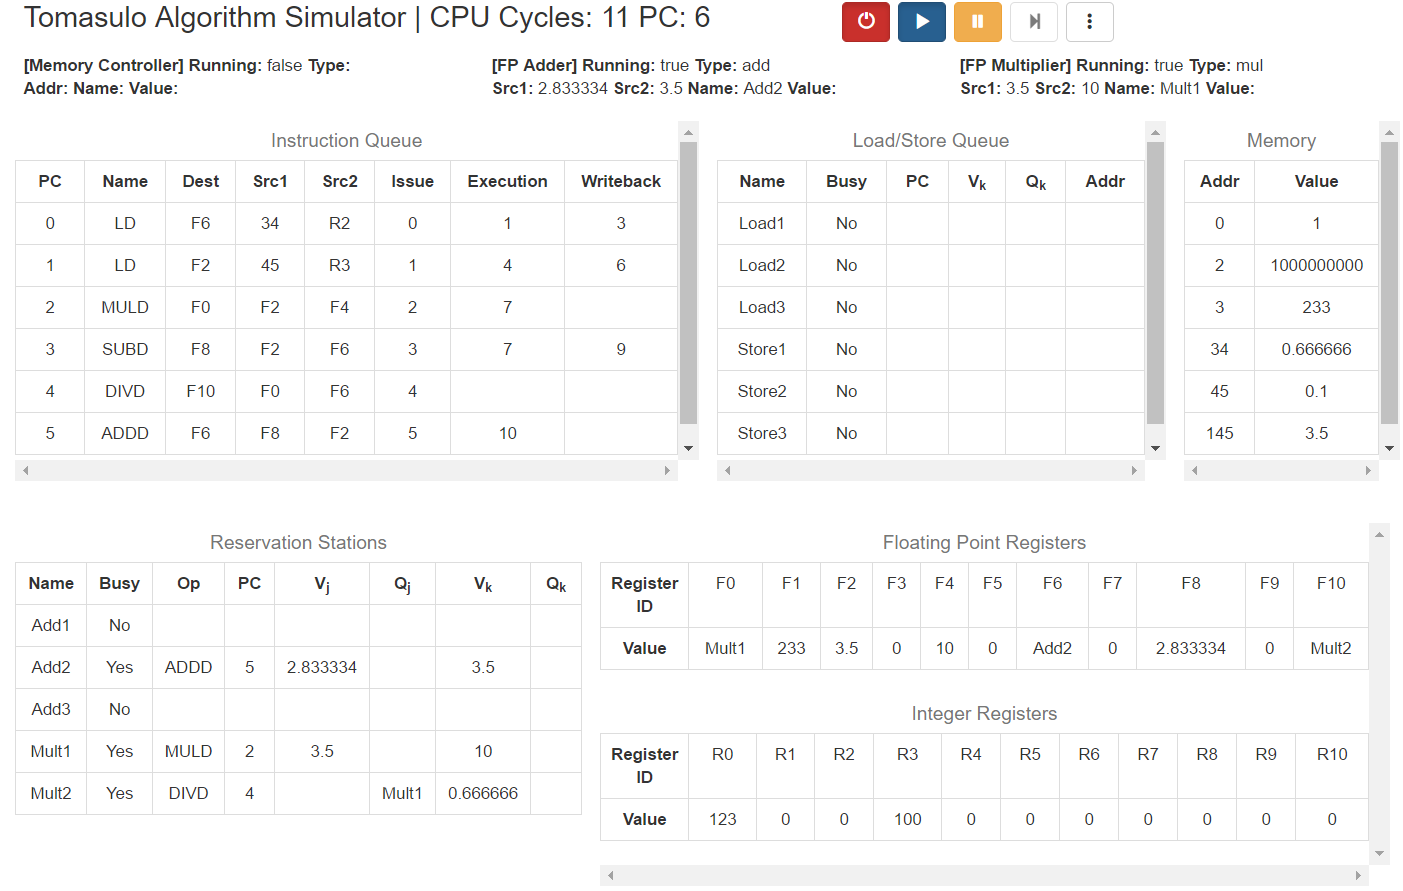
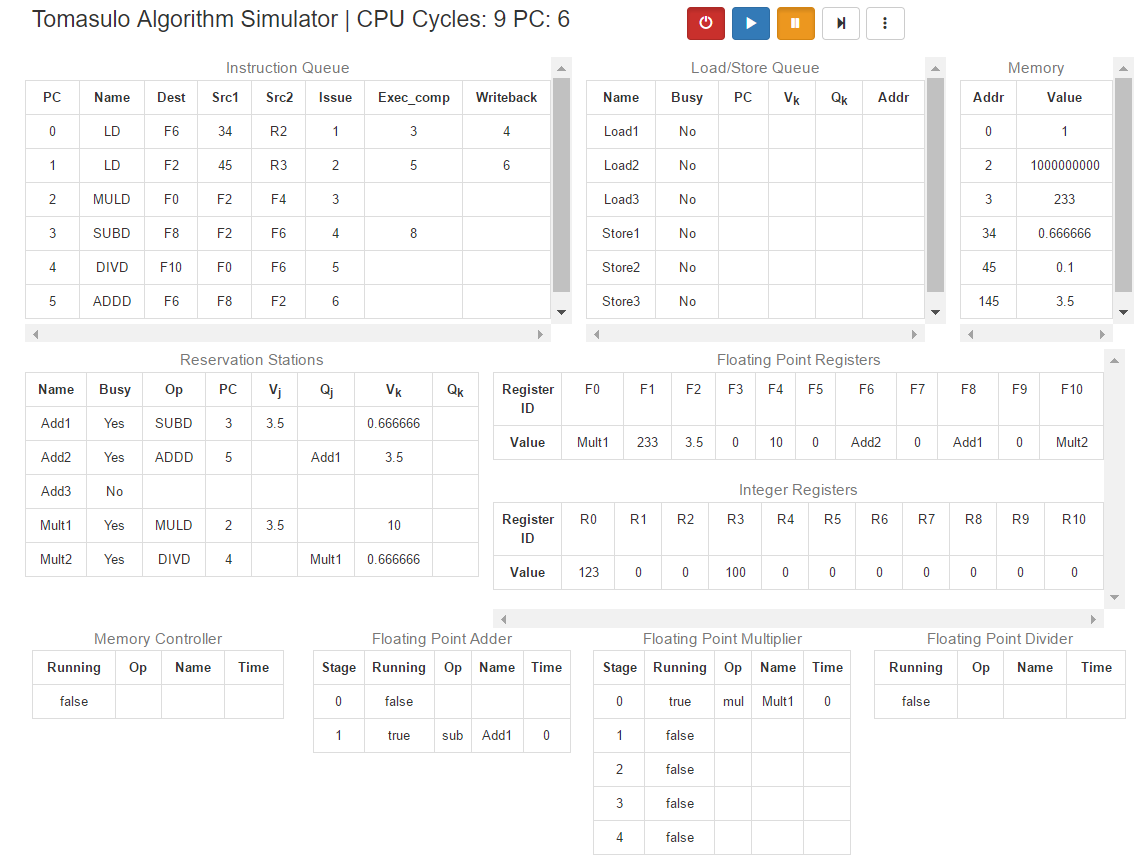
update intro/doc.md

diff --git a/docs/intro/用户使用手册.html b/docs/intro/用户使用手册.html
@@ -29,20 +29,41 @@
 
 <p><img src="imgs/run.png" alt="run" title=""></p>
 
-<p>为了模拟Tomasulo算法，我们使用<code>javascript</code>模拟了一个CPU，<strong>对命令进行硬件级的模拟</strong>；在页面的右上方有5个按钮，我们可以通过这5个按钮控制CPU的行为，包括开关机、启动、暂停和初始化，在页面的中间则是若干表格，描述当前CPU内部的情况，其中“Instruction Queue”表格描述指令队列，“Load/Store Queue”表格表示Tomasulo算法中的存取队列，“Memory”表格则表示内存中对应地址相应的值（注：由于内存一般来说非常大，所以只有被初始化和被修改了的内存块会被显示出来），“Reservation Stations”表格描述Tomasulo算法中的保留站，“Floating Point Registers”和“Integer Registers”则分别描述浮点寄存器和整数寄存器对应的值。</p>
+<p>为了模拟Tomasulo算法，我们使用<code>javascript</code>模拟了一个CPU，<strong>对指令进行硬件级的模拟</strong>。</p>
+
+<p>在页面的右上方有5个按钮（详见下文），我们可以通过这5个按钮控制CPU的行为，包括开关机、运行、暂停和初始化。</p>
+
+<p>在页面的中间则是若干表格，描述当前CPU内部的情况，对应情况如下：</p>
+
+<ul>
+<li>Instruction Queue：指令队列表格</li>
+<li>Load/Store Queue：Tomasulo算法中的存取队列</li>
+<li>Memory：内存中对应地址及其相应的值（注：由于内存一般来说非常大，所以只有被初始化和被修改了的内存块会被显示出来）</li>
+<li>Reservation Stations：Tomasulo算法中的保留站</li>
+<li>Floating Point Registers &amp; Integer Registers：浮点寄存器和整数寄存器对应的值</li>
+</ul>
 
 
 
 <h3 id="5个控制按钮">5个控制按钮</h3>
 
-<p>在页面的右上方，是软件的5个控制按钮，你所需要进行的所有操作均可以通过这5个按钮来实现，它们各自的功能如下：</p>
+<p>在页面的右上方，是软件的5个控制按钮，所需进行的所有操作均可以通过这5个按钮来实现，它们各自的功能如下：</p>
 
 <ul>
-<li><p><img src="imgs/power.png" alt="power" title="">开机关机按钮：默认情况下CPU是关机状态，在关机状态下你可以通过“选项”按钮（详见下文）对CPU进行一些初始化操作；<em>当你按下此按钮，CPU将由关机状态切换到开机且暂停状态</em>，此时CPU会根据初始化时设定的内容对页面进行一些设置，比如，操作命令将会被按行解析，分析出每条命令的操作类型、源操作数和目标操作数，然后将其依次放入“Instruction Queue”中，同时也会根据设定的内存值和寄存器值，将“Memory”、“Floating Point Registers”和“Integer Registers”表格中对应的位置进行初始化</p></li>
+<li><p><img src="imgs/power.png" alt="power" title="">电源按钮：默认情况下CPU是关机状态，在关机状态下你可以通过“选项”按钮（详见下文）对CPU进行一些初始化操作；<em>当你按下此按钮，CPU将由关机状态切换到开机且暂停状态</em>，此时CPU会根据初始化时设定的内容对页面进行以下设置：</p>
+
+<ul><li>指令列表将会被按行解析，分析出每条命令的操作类型、源操作数和目标操作数，然后将其依次放入“Instruction Queue”中</li>
+<li>根据设定的内存值，将“Memory”表格中对应的位置进行初始化</li>
+<li>根据设定的寄存器值，将“Floating Point Registers”和“Integer Registers”表格中对应的位置进行初始化</li></ul></li>
 <li><p><img src="imgs/start.png" alt="start" title="">运行按钮：<strong>只有CPU已开机且处于暂停状态下才能使用此按钮</strong>，点击此按钮CPU将处于自动运行状态，在此种状态下，CPU将以1Hz的时钟运行，并且更新的值会出现绿色的闪烁</p></li>
-<li><p><img src="imgs/pause.png" alt="pause" title="">暂停按钮：当CPU处于自动运行状态时，点击此按钮可以将CPU暂停，此时你可以详细查看当前各个表格中的值，你也可以使用运行按钮继续从当前状态启动CPU，也可以使用单步按钮（详见下文）让CPU继续执行一个时钟周期</p></li>
+<li><p><img src="imgs/pause.png" alt="pause" title="">暂停按钮：当CPU处于自动运行状态时，点击此按钮可以将CPU暂停，此时你可以详细查看当前各个表格中的值，你可以使用运行按钮继续从当前状态启动CPU，也可以使用单步按钮（详见下文）让CPU继续执行一个时钟周期</p></li>
 <li><p><img src="imgs/next.png" alt="next" title="">单步按钮：<strong>只有当CPU处于暂停状态时才可以使用此按钮</strong>，单步按钮既是单步CLK，就是说，每次点击此按钮，都会让CPU执行一个时钟周期；使用此按钮，你可以方便的将CPU运行到你所关心的时钟周期，对于理解Tomasulo算法非常有帮助</p></li>
-<li><p><img src="imgs/options.png" alt="options" title="">选项按钮：点击选项按钮，会弹开如下的对话框，在这个弹出框中你可以进行CPU的初始化设置，最上面的文本框是命令编辑框，你可以将你需要执行的命令按行写入此框中；在“Memory values”编辑框中你可以设置内存的初始值，格式是每行两个数字描述一个内存值，每行的前一个数值表示内存地址，第二个值表示该内存中的值；在“Floating point register values”和“Integer register values”编辑框中你可以设置浮点寄存器和整数寄存器的初始值，格式为每行两个用空格隔开的字符串描述一个寄存器，每行的第一个字符串为寄存器的名字，第二个字符串是该寄存器对应的初始值。<strong>注意，在CPU自动运行状态下按下此按钮会将CPU暂停；按下对话框中的“Save changes”按钮将会自动用对话框中设置的内容对CPU进行初始化，此操作会清空之前CPU的状态，请谨慎使用</strong></p></li>
+<li><p><img src="imgs/options.png" alt="options" title="">选项按钮：点击选项按钮，会弹开如下的对话框，在这个弹出框中你可以进行CPU的初始化设置：</p>
+
+<ul><li>“Instructions”文本框是指令编辑框，你可以将你需要执行的命令按行写入此框中，指令格式详见下文</li>
+<li>“Memory values”编辑框中你可以设置内存的初始值，格式是每行两个数字描述一个内存块的值，每行的前一个数值表示内存地址，第二个值表示该内存中的值</li>
+<li>“Floating point register values”和“Integer register values”编辑框中你可以设置浮点寄存器和整数寄存器的初始值，每行两个用空格隔开的字符串描述一个寄存器，第一个字符串为寄存器的名字，第二个字符串是该寄存器对应的初始值。</li>
+<li><strong>注意，在CPU自动运行状态下按下此按钮会将CPU暂停；按下对话框中的“Save changes”按钮将会自动用对话框中设置的内容对CPU进行初始化，此操作会清空之前CPU的状态，请谨慎使用</strong></li></ul></li>
 </ul>
 
 <p><img src="imgs/options_dialog.png" alt="options_dialog" title=""></p>
@@ -54,6 +75,21 @@
 <p>上面5个按钮的各个功能可以用以下状态机进行描述：</p>
 
 <p><img src="imgs/status.png" alt="status" title=""></p>
+
+
+
+<h3 id="指令说明">指令说明</h3>
+
+<p>目前我们的模拟器支持以下6条指令，通过选项按钮打开的指令编辑框中每行指令必须是以下6条格式的指令之一：</p>
+
+<ol>
+<li><code>ADDD F1, F2, F3</code>：加法指令，其中<code>F1</code>,<code>F2</code>,<code>F3</code>均为浮点寄存器的名字</li>
+<li><code>SUBD F1, F2, F3</code>：减法指令，其中<code>F1</code>,<code>F2</code>,<code>F3</code>均为浮点寄存器的名字</li>
+<li><code>MULD F1, F2, F3</code>：乘法指令，其中<code>F1</code>,<code>F2</code>,<code>F3</code>均为浮点寄存器的名字</li>
+<li><code>DIVD F1, F2, F3</code>：除法指令，其中<code>F1</code>,<code>F2</code>,<code>F3</code>均为浮点寄存器的名字</li>
+<li><code>LD F1, ADDR</code>：载入指令，其中<code>F1</code>为浮点寄存器的名字，<code>ADDR</code>为地址，格式为<code>32(R1)</code>,其中<code>R1</code>是整数寄存器的名字</li>
+<li><code>ST F1, ADDR</code>：储存指令，其中<code>F1</code>为浮点寄存器的名字，<code>ADDR</code>为地址，格式为<code>32(R1)</code>,其中<code>R1</code>是整数寄存器的名字</li>
+</ol>
 
 
 
@@ -80,7 +116,7 @@
 <li>Src1：每条指令固有属性，表示指令的原操作数1</li>
 <li>Src2：每条指令固有属性，表示指令的原操作数2</li>
 <li>Issue：表示在Tomasulo算法中，该指令被发射的时间</li>
-<li>Execution：表示在Tomasulo算法中，该指令运行完成的时间</li>
+<li>Exec_comp：表示在Tomasulo算法中，该指令运行完成的时间</li>
 <li>Writeback：表示在Tomasulo算法中，该指令结果写回的时间</li>
 </ul>
 
@@ -94,10 +130,10 @@
 
 <ul>
 <li>Name：表示Load Buffer和Store Buffer的名字，在Tomasulo算法的寄存器重命名技术中有重要作用</li>
-<li>Busy：描述当前行的Load Buffer和Store Buffer是否空闲，如果当前行有为完成的任务，则Busy列为Yes</li>
+<li>Busy：描述当前行的Load Buffer和Store Buffer是否空闲，如果当前行有未完成的任务，则Busy列为Yes</li>
 <li>PC：表示当前行的任务是哪一条指令</li>
 <li>Vk: 只在Store Buffer中存在，表示需要写入的值，如果值未就位，则为空</li>
-<li>Qk: 只在Store Buffer中存在，表示需要写入值的来自哪个保留栈，如果值已就位，则为空</li>
+<li>Qk: 只在Store Buffer中存在，表示需要写入值的来自哪个保留站，如果值已就位，则为空</li>
 <li>Addr: 表示Load和Store指令的操作地址</li>
 </ul>
 
@@ -116,22 +152,76 @@
 
 <h3 id="reservation-stations">Reservation Stations</h3>
 
-<p>“Reservation Stations”即对应于Tomasulo算法中的保留栈，在本实验中，一共有3个浮点加减法保留栈和2个浮点乘除法保留栈，故共有5行；“Reservation Stations”表格共有8列，描述5个保留栈的各个属性，其含义如下：</p>
+<p>“Reservation Stations”即对应于Tomasulo算法中的保留站，在本实验中，一共有3个浮点加减法保留站和2个浮点乘除法保留站，故共有5行；“Reservation Stations”表格共有8列，描述5个保留站的各个属性，其含义如下：</p>
 
 <ul>
-<li>Name：保留栈的名字，在Tomasulo算法的寄存器重命名中会用到</li>
-<li>Busy：表示当前保留栈是否可以使用，Yes表示当前任务未完成</li>
+<li>Name：保留站的名字，在Tomasulo算法的寄存器重命名中会用到</li>
+<li>Busy：表示当前保留站是否可以使用，Yes表示当前任务未完成</li>
 <li>Op：表示当前任务的操作名称，和“Instruction Queue”中的Name相同</li>
 <li>PC：表示当前任务是哪一条指令</li>
 <li>Vj: 表示源操作数1的值，如果值未就位则此处为空</li>
-<li>Qj: 表示源操作数1来自哪个保留栈，如果值已就位，则此处为空</li>
+<li>Qj: 表示源操作数1来自哪个保留站，如果值已就位，则此处为空</li>
 <li>Vk: 表示源操作数2的值，如果值未就位则此处为空</li>
-<li>Qk: 表示源操作数2来自哪个保留栈，如果值已就位，则此处为空</li>
+<li>Qk: 表示源操作数2来自哪个保留站，如果值已就位，则此处为空</li>
 </ul>
 
 
 
 <h3 id="floating-point-registers-integer-registers">Floating Point Registers &amp; Integer Registers</h3>
 
-<p>“Floating Point Registers”和“Integer Registers”表格描述当前CPU内浮点寄存器和整数寄存器的状态，第一行“Register ID”表示寄存器的标识，第二行“Value”表示对应寄存器的值。</p></div></body>
+<p>“Floating Point Registers”和“Integer Registers”表格描述当前CPU内浮点寄存器和整数寄存器的状态，第一行“Register ID”表示寄存器的标识，第二行“Value”表示对应寄存器的值。</p>
+
+
+
+<h3 id="memory-controller">Memory Controller</h3>
+
+<p>“Memory Controller”表格描述当前访存部件的执行情况，访存部件运行速度为2周期/次；表格一共4列，每列的含义如下：</p>
+
+<ul>
+<li>Running: 表示当前访存部件是否在运行，true表示正在运行</li>
+<li>Op: 表示描述当前的访存操作是load还是store</li>
+<li>Name: 表示当前运行中Load Buffer或Store Buffer的名字</li>
+<li>Time: 表示当前任务完成的剩余时间</li>
+</ul>
+
+
+
+<h3 id="floating-point-adder">Floating Point Adder</h3>
+
+<p>“Floating Point Adder”表格描述当前浮点加减法部件的执行情况，浮点加减法部件为两段流水线，每段流水线1时钟周期；表格一共5列，每列含义如下：</p>
+
+<ul>
+<li>Stage: 表示流水线阶段编号</li>
+<li>Running: 表示当前流水线是否正在运行，true表示正在运行</li>
+<li>Op: 表示当前任务是加法还是减法</li>
+<li>Name: 表示当前任务保留站的名字</li>
+<li>Time: 表示当前任务完成的剩余时间</li>
+</ul>
+
+
+
+<h3 id="floating-point-multiplier">Floating Point Multiplier</h3>
+
+<p>“Floating Point Multiplier”表格描述当前浮点乘法部件的执行情况，浮点乘法部件为五段流水线，每段流水线2时钟周期；表格一共5列，每列含义如下：</p>
+
+<ul>
+<li>Stage: 表示流水线阶段编号</li>
+<li>Running: 表示当前流水线是否正在运行，true表示正在运行</li>
+<li>Op: 表示当前任务类型，为mul</li>
+<li>Name: 表示当前任务保留站的名字</li>
+<li>Time: 表示当前任务完成的剩余时间</li>
+</ul>
+
+
+
+<h3 id="floating-point-divider">Floating Point Divider</h3>
+
+<p>“Floating Point Divider”表格描述当前浮点除法部件的执行情况，浮点除法部件每次任务需要40时钟周期；表格一共4列，每列含义如下：</p>
+
+<ul>
+<li>Running: 表示当前流水线是否正在运行，true表示正在运行</li>
+<li>Op: 表示当前任务类型，为div</li>
+<li>Name: 表示当前任务保留站的名字</li>
+<li>Time: 表示当前任务完成的剩余时间</li>
+</ul></div></body>
 </html>

diff --git a/docs/intro/doc.md b/docs/intro/doc.md
@@ -16,9 +16,9 @@
 
 ![run](imgs/run.png)
 
-为了模拟Tomasulo算法，我们使用`javascript`模拟了一个CPU，**对命令进行硬件级的模拟**。
+为了模拟Tomasulo算法，我们使用`javascript`模拟了一个CPU，**对指令进行硬件级的模拟**。
 
-在页面的右上方有5个按钮（详见下文），我们可以通过这5个按钮控制CPU的行为，包括开关机、启动、暂停和初始化。
+在页面的右上方有5个按钮（详见下文），我们可以通过这5个按钮控制CPU的行为，包括开关机、运行、暂停和初始化。
 
 在页面的中间则是若干表格，描述当前CPU内部的情况，对应情况如下：
 
@@ -30,9 +30,9 @@
 
 ### 5个控制按钮
 
-在页面的右上方，是软件的5个控制按钮，你所需要进行的所有操作均可以通过这5个按钮来实现，它们各自的功能如下：
+在页面的右上方，是软件的5个控制按钮，所需进行的所有操作均可以通过这5个按钮来实现，它们各自的功能如下：
 
-* ![power](imgs/power.png)开机关机按钮：默认情况下CPU是关机状态，在关机状态下你可以通过“选项”按钮（详见下文）对CPU进行一些初始化操作；*当你按下此按钮，CPU将由关机状态切换到开机且暂停状态*，此时CPU会根据初始化时设定的内容对页面进行以下设置
+* ![power](imgs/power.png)电源按钮：默认情况下CPU是关机状态，在关机状态下你可以通过“选项”按钮（详见下文）对CPU进行一些初始化操作；*当你按下此按钮，CPU将由关机状态切换到开机且暂停状态*，此时CPU会根据初始化时设定的内容对页面进行以下设置：
     * 指令列表将会被按行解析，分析出每条命令的操作类型、源操作数和目标操作数，然后将其依次放入“Instruction Queue”中
     * 根据设定的内存值，将“Memory”表格中对应的位置进行初始化
     * 根据设定的寄存器值，将“Floating Point Registers”和“Integer Registers”表格中对应的位置进行初始化
@@ -86,7 +86,7 @@
 * Src1：每条指令固有属性，表示指令的原操作数1
 * Src2：每条指令固有属性，表示指令的原操作数2
 * Issue：表示在Tomasulo算法中，该指令被发射的时间
-* Execution：表示在Tomasulo算法中，该指令运行完成的时间
+* Exec_comp：表示在Tomasulo算法中，该指令运行完成的时间
 * Writeback：表示在Tomasulo算法中，该指令结果写回的时间
 
 表格的第2~5项是每条指令的固有属性，在运行过程中不会被改变，第一项PC是根据指令的排列顺序依次从0增加，而后3项是Tomasulo算法中所特有的，在CPU运行过程中会逐渐得出其值。
@@ -96,7 +96,7 @@
 “Load/Store Queue”在软件的中上部分，表示Tomasulo算法中的Load Buffer和Store Buffer，其各列的含义如下：
 
 * Name：表示Load Buffer和Store Buffer的名字，在Tomasulo算法的寄存器重命名技术中有重要作用
-* Busy：描述当前行的Load Buffer和Store Buffer是否空闲，如果当前行有为完成的任务，则Busy列为Yes
+* Busy：描述当前行的Load Buffer和Store Buffer是否空闲，如果当前行有未完成的任务，则Busy列为Yes
 * PC：表示当前行的任务是哪一条指令
 * Vk: 只在Store Buffer中存在，表示需要写入的值，如果值未就位，则为空
 * Qk: 只在Store Buffer中存在，表示需要写入值的来自哪个保留站，如果值已就位，则为空
@@ -125,3 +125,41 @@
 ### Floating Point Registers & Integer Registers
 
 “Floating Point Registers”和“Integer Registers”表格描述当前CPU内浮点寄存器和整数寄存器的状态，第一行“Register ID”表示寄存器的标识，第二行“Value”表示对应寄存器的值。
+
+### Memory Controller
+
+“Memory Controller”表格描述当前访存部件的执行情况，访存部件运行速度为2周期/次；表格一共4列，每列的含义如下：
+
+* Running: 表示当前访存部件是否在运行，true表示正在运行
+* Op: 表示描述当前的访存操作是load还是store
+* Name: 表示当前运行中Load Buffer或Store Buffer的名字
+* Time: 表示当前任务完成的剩余时间
+
+### Floating Point Adder
+
+“Floating Point Adder”表格描述当前浮点加减法部件的执行情况，浮点加减法部件为两段流水线，每段流水线1时钟周期；表格一共5列，每列含义如下：
+
+* Stage: 表示流水线阶段编号
+* Running: 表示当前流水线是否正在运行，true表示正在运行
+* Op: 表示当前任务是加法还是减法
+* Name: 表示当前任务保留站的名字
+* Time: 表示当前任务完成的剩余时间
+
+### Floating Point Multiplier
+
+“Floating Point Multiplier”表格描述当前浮点乘法部件的执行情况，浮点乘法部件为五段流水线，每段流水线2时钟周期；表格一共5列，每列含义如下：
+
+* Stage: 表示流水线阶段编号
+* Running: 表示当前流水线是否正在运行，true表示正在运行
+* Op: 表示当前任务类型，为mul
+* Name: 表示当前任务保留站的名字
+* Time: 表示当前任务完成的剩余时间
+
+### Floating Point Divider
+
+“Floating Point Divider”表格描述当前浮点除法部件的执行情况，浮点除法部件每次任务需要40时钟周期；表格一共4列，每列含义如下：
+
+* Running: 表示当前流水线是否正在运行，true表示正在运行
+* Op: 表示当前任务类型，为div
+* Name: 表示当前任务保留站的名字
+* Time: 表示当前任务完成的剩余时间
